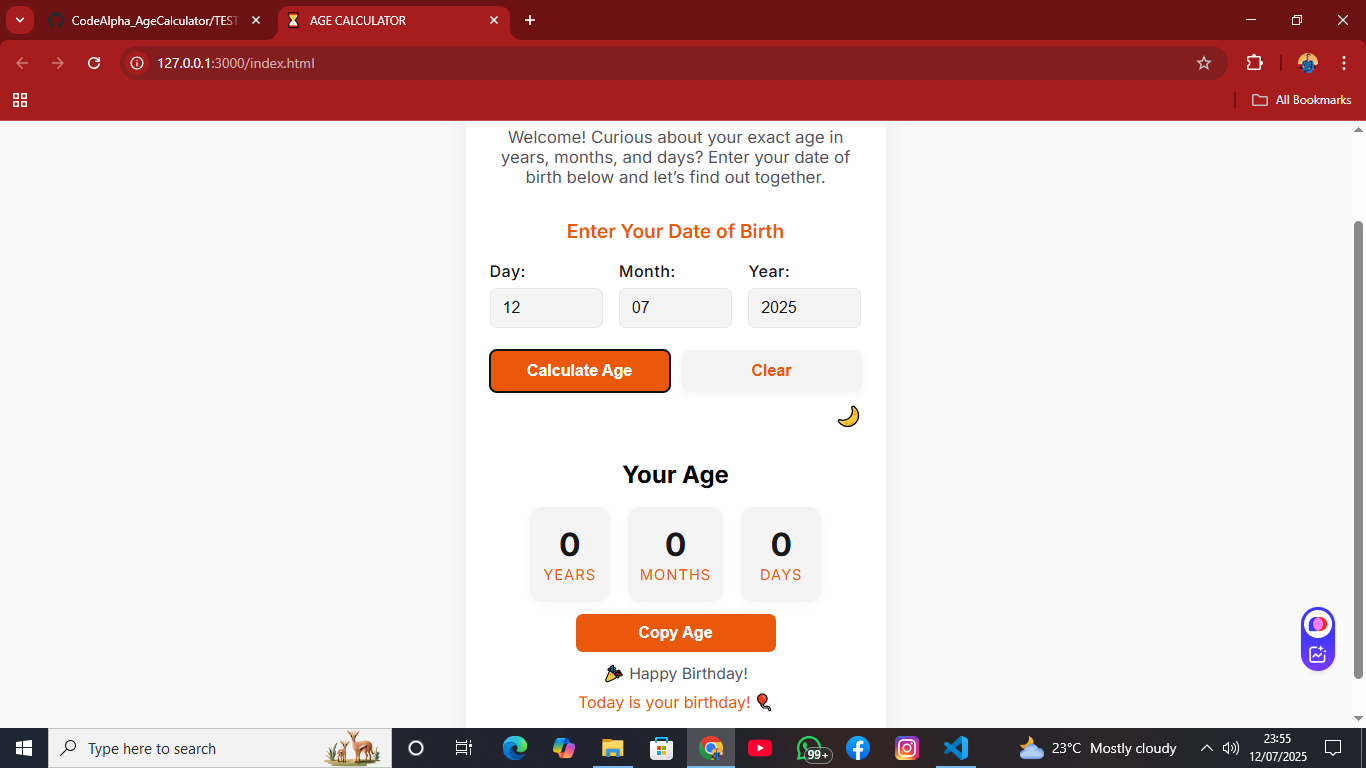
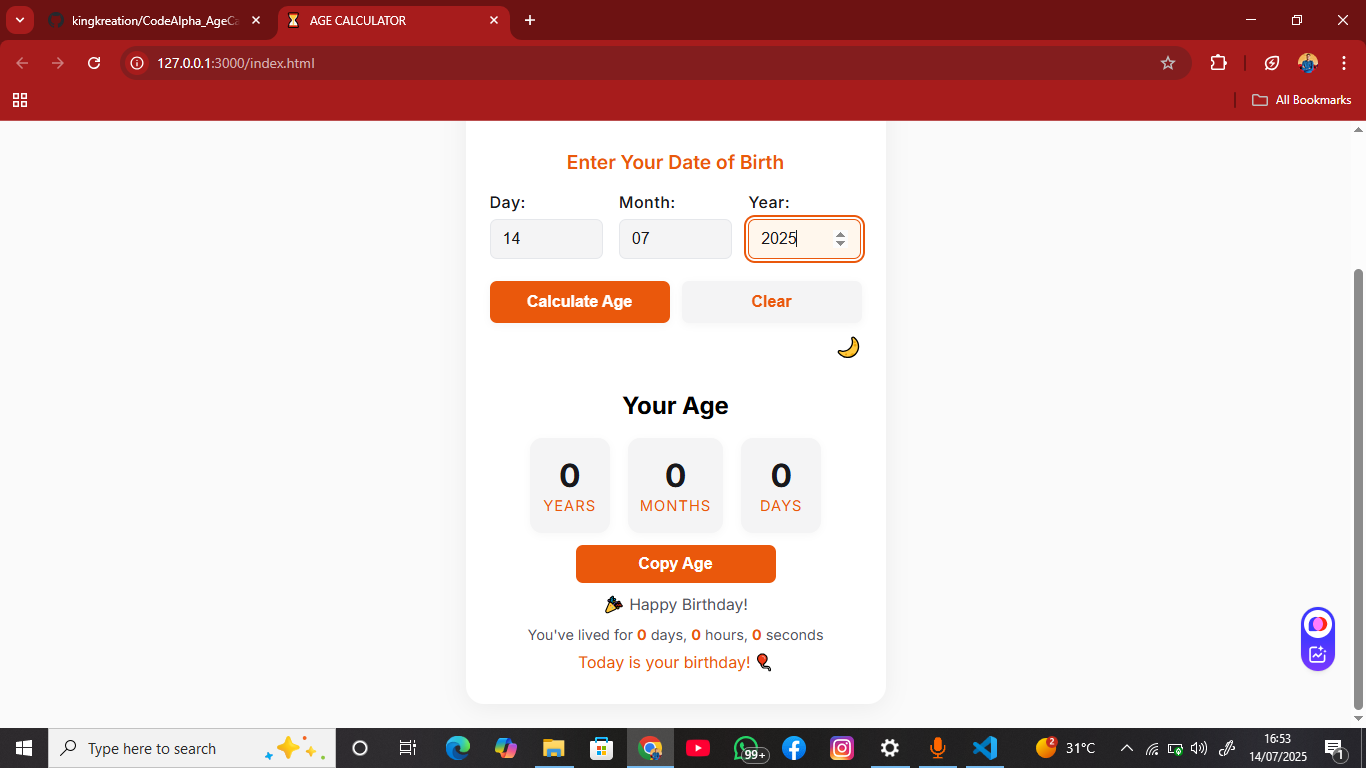
All screeenshots updated

diff --git a/TESTING.md b/TESTING.md
@@ -30,14 +30,14 @@ This document outlines the manual testing process used to verify the core featur
 
 | Test ID | Test Case | Input | Expected Output | Actual Output | Status |
 |---------|------------------------|-----------------|---------------------------------|-----------------------------|--------|
-| TC001 | No input submitted | (blank) | Show error message | Error message shown | ✅ Pass |
-| TC002 | Valid DOB: 02-11-2007 | 02-11-2007 | Correct age | Correct age displayed | ✅ Pass |
-| TC003 | DOB = Present day | Today’s date (12-07-2025) | Age = 0 | Age = 0 shown | ✅ Pass |
-| TC004 | Future DOB | 01-01-2030 | Error message | Blocked with error | ✅ Pass |
+| TC001 | No input submitted | (blank) | Show error message | Error message (please fill in all feilds) shown | ✅ Pass |
+| TC002 | Valid DOB: 02-11-2007 | 02-11-2007 | Correct age | Correct age displayed (My age is 17 years, 8 months, and 12 days.) | ✅ Pass |
+| TC003 | DOB = Present day | Today’s date (14-07-2025) | Age = 0 | Age = 0 shown | ✅ Pass |
+| TC004 | Future DOB | 01-01-2030 | Error message | Blocked with error (Year must be between 1800 and the current year.) | ✅ Pass |
 | TC005 | Leap Year DOB | 29-02-2004 | Accurate result | Correct age calculated with leap year message | ✅ Pass |
 | TC006 | Click “Copy” button | Any DOB (04-10-2004) | Copied feedback | “Copied!” alert shown | ✅ Pass |
 | TC007 | Enable dark mode | Toggle button | Dark theme active | Background + text updated | ✅ Pass |
-| TC008 | Countdown message | Valid DOB (02-06-2006) | Time till next birthday | Countdown (🎂 324 days until your next birthday.) shown | ✅ Pass |
+| TC008 | Countdown message | Valid DOB (02-06-2006) | Time till next birthday | Countdown (🎂 323 days until your next birthday.) shown | ✅ Pass |
 | TC009 | Clear/Reset button | Enter DOB, click "Clear", then "Reset" | Inputs clear, then results reset | Inputs cleared, then results, total time, and messages reset | ✅ Pass |
 | TC010 | Enter key for calculation | Valid DOB, press Enter | Age calculated and displayed | Age calculated and displayed | ✅ Pass |
 
@@ -54,7 +54,7 @@ This document outlines the manual testing process used to verify the core featur
     *Verifies error handling when no date is entered*
 
 2.  **TC002 - Valid Date Calculation**
-    ![27-06-2003 Calculation](/images/testing/tc02-valid.png)
+    ![11-02-2007 Calculation](/images/testing/tc02-valid.png)
     *Standard date calculation verification*
 
 3.  **TC003 - Today's Date Handling**
@@ -89,7 +89,7 @@ This document outlines the manual testing process used to verify the core featur
 #### Additional Test Cases
 
 9.  **TC009 - Clear/Reset Button Functionality**   
-    ![Clear/Reset](/images/testing/tc09-clear/reset.png)    
+    ![Clear/Reset](/images/testing/tc09-clear-reset.png)    
     *Ensures the "Clear" and "Reset Results" states function correctly.*
 
 10. **TC010 - Enter Key Calculation**  
